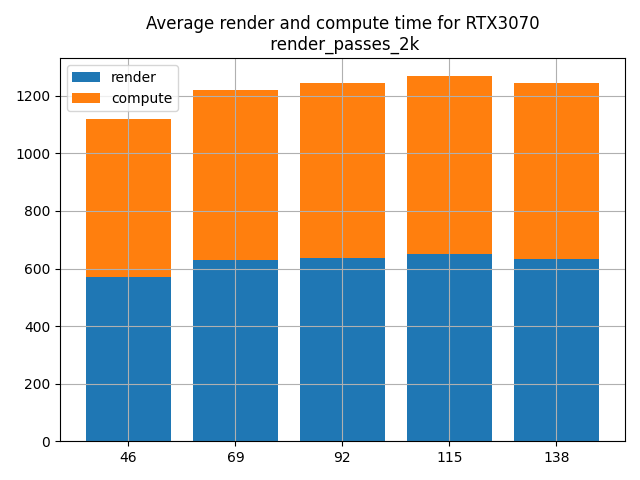
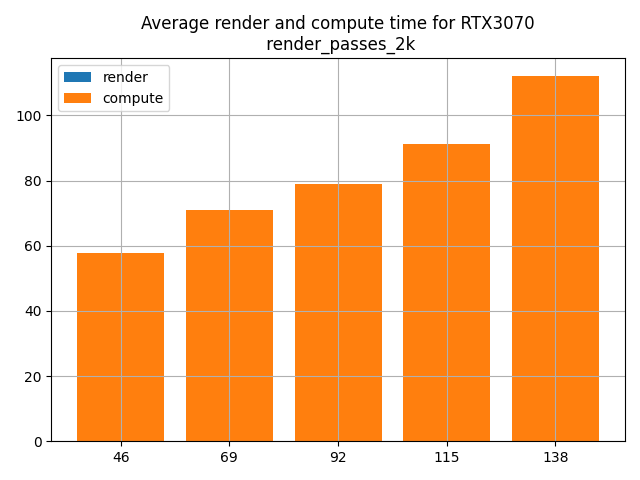
Testing

diff --git a/accel-sim-framework/pipeline/utility/plots/stacked_bar_chart.py b/accel-sim-framework/pipeline/utility/plots/stacked_bar_chart.py
@@ -2,12 +2,14 @@
 from __future__ import annotations
 
 from pathlib import Path
+from utility.kernel_handler import KernelHandler
 import pandas as pd
 import matplotlib
 matplotlib.use("Agg")
 import matplotlib.pyplot as plt
 import numpy as np
 import utility.parser as ps
+import statistics
 
 PIPELINE_ROOT = Path(__file__).resolve().parent.parent
 PIPELINE_YAML = PIPELINE_ROOT.parent / "setup" / "pipeline.yaml"
@@ -15,45 +17,28 @@ PIPELINE_YAML = PIPELINE_ROOT.parent / "setup" / "pipeline.yaml"
 pipeline = {}
 experiment = {}
 
-# Method for grouping data
-# df is the csv file as a input
-# row is what row in the csv file you want to gorup, meaning it cores based on different configs.
-# data_type is what type of data you want to gropup it by, meaning ether render og compute. So here we need to pass MEAS for render and NZ2 for compute
-# Benchmark is to filter for different benchmark, example is render_passes_2k/all1, where if the coulmn name dosent start with this name it dosent add it to the groupping.
-def group_data(df, row, data_type, benchmark):
+def group_data(df, row, benchmark, kernel_handler: KernelHandler, want_render: bool):
     data_list = []
     for col_name in df.columns[1:]:
         if not col_name.startswith(benchmark):
             continue
-        
         col_name_part = col_name.split("/")[2]
-        
-        if col_name_part.startswith(data_type):
-            data_list.append(df.loc[row, col_name])
-    
+
+        if want_render:
+            if kernel_handler.is_render_kernel(col_name_part):
+                data_list.append(df.loc[row, col_name])
+        else:
+            if kernel_handler.is_compute_kernel(col_name_part):
+                data_list.append(df.loc[row, col_name])
+
     return data_list
 
-# Computes the avg result of a grouped data
-# data_list is the list of data that you want to compute the avg of
+
 def compute_avg_data(data_list):
-    n = len(data_list)
-    sum = 0
-    for i in range(n):
-        sum = sum + data_list[i]
-    return sum/n
+    return statistics.mean(data_list) if data_list else 0
 
-# The function fetches all unic benchmark based on a csv file
-# df is the csv file object pass as a parameter.
+
 def fetch_benchmarks(df):
-    #benchmark_list = []
-    #for col_name in df.columns[1:]:
-        #if col_name == "AVG":
-           # continue
-       # name_split = col_name.split("/")
-      #  name = name_split[0] + "/" + name_split[1]
-       # benchmark_list.append(name)
-    #return set(benchmark_list)
-
     benchmark_list = []
     for col_name in df.columns[1:]:
         if col_name == "AVG":
@@ -63,13 +48,14 @@ def fetch_benchmarks(df):
         benchmark_list.append(name)
     return set(benchmark_list)
 
-# Returns the configuration metric name
+
 def get_config_metric_name(df):
     return df.columns[0]
-    
+
 
 def get_config_metric(df):
     return df.iloc[:, 0].tolist()
+
 
 def gorup_benchmakr_with_configs(benchmarks, configs):
     x_benchmarks = []
@@ -82,6 +68,7 @@ def gorup_benchmakr_with_configs(benchmarks, configs):
 
     return x_benchmarks, x_configs
 
+
 def group_y_data(len_config, len_benchmarks, avg_data_list):
     y_render = []
     y_compute = []
@@ -93,30 +80,33 @@ def group_y_data(len_config, len_benchmarks, avg_data_list):
 
     return y_render, y_compute
 
-def compute_avg_data_list(df, len_config, benchmarks):
+
+def compute_avg_data_list(df, len_config, benchmarks, kernel_handler: KernelHandler):
     avg_data_list = []
 
     for row in range(len_config):
         row_out = []
         for benchmark in benchmarks:
-            mesa_vals = group_data(df, row, "MESA", benchmark)
-            zn2_vals  = group_data(df, row, "ZN2", benchmark)
+            render_vals = group_data(df, row, benchmark, kernel_handler, want_render=True)
+            compute_vals = group_data(df, row, benchmark, kernel_handler, want_render=False)
 
-            mesa_avg = compute_avg_data(mesa_vals)
-            zn2_avg  = compute_avg_data(zn2_vals)
+            render_avg = compute_avg_data(render_vals) if render_vals else 0
+            compute_avg = compute_avg_data(compute_vals) if compute_vals else 0
 
-            row_out.append([mesa_avg, zn2_avg])
+            row_out.append([render_avg, compute_avg])
         avg_data_list.append(row_out)
+
     return avg_data_list
+
 
 def get_gpu_name(csv_path: str) -> str:
     gpu_name = Path(csv_path).parent.name
     return gpu_name
 
+
 def get_benchmark_name():
     global pipeline
     pipeline = ps.get_pipeline(PIPELINE_YAML)
-    exp_name = pipeline.experiment.name
 
     global experiment
     experiment = ps.get_experiment(pipeline.experiment.name)
@@ -131,6 +121,15 @@ def get_benchmark_name():
 def staked_bar_chart(csv_path: str) -> None:
     csv_path = Path(csv_path)
     df = pd.read_csv(csv_path)
+    kernel_names = []
+    for col_name in df.columns[1:]:
+        if col_name == "AVG":
+            continue
+        parts = col_name.split("/")
+        if len(parts) > 2:
+            kernel_names.append(parts[2])
+
+    kernel_handler = KernelHandler(kernel_names)
 
     benchmarks = sorted(fetch_benchmarks(df))
     configs = sorted(get_config_metric(df))
@@ -138,12 +137,10 @@ def staked_bar_chart(csv_path: str) -> None:
     len_config = len(configs)
 
     x_benchmarks, x_configs = gorup_benchmakr_with_configs(benchmarks, configs)
-    #x_labels = [f"{b}\n{c}" for b, c in zip(x_benchmarks, x_configs)]
     x_labels = configs
-
     x_pos = np.arange(len(x_labels))
 
-    avg_data_list = compute_avg_data_list(df, len_config, benchmarks)
+    avg_data_list = compute_avg_data_list(df, len_config, benchmarks, kernel_handler)
     y_render, y_compute = group_y_data(len_config, len_benchmarks, avg_data_list)
 
     gpu_name = get_gpu_name(csv_path)
@@ -156,22 +153,9 @@ def staked_bar_chart(csv_path: str) -> None:
     plt.title(f"Average render and compute time for {gpu_name}\n {benchmark_name}")
     plt.tight_layout()
     plt.grid(True)
-    plt.savefig(csv_path.with_suffix("").parent / f"{csv_path.stem}_stacked_bar_chart.png", dpi=300, bbox_inches="tight")
-    #plt.savefig("test_plot.png")
-    plt.savefig("test_plot.png")
+    plt.savefig(
+        csv_path.with_suffix("").parent / f"{csv_path.stem}_stacked_bar_chart.png",
+        dpi=300,
+        bbox_inches="tight",
+    )
     plt.close()
-
-def main():
-    csv_dir= "/cluster/home/olekd/projects/crisp_framework/accel-sim-framework/pipeline/results/export/RTX3070/more_streaming_multiprocessors.csv"
-    print("Result dir: ", get_result_dir(csv_dir))
-    #staked_bar_chart(csv_dir)
-
-    
-
-
-
-
-if __name__ == "__main__":
-    main()
-
-

diff --git a/accel-sim-framework/pipeline/utility/kernel_handler.py b/accel-sim-framework/pipeline/utility/kernel_handler.py
@@ -1,0 +1,54 @@
+#!/usr/bin/env python3
+
+class KernelHandler:
+    RENDER_KERNEL_PREFIX = "MESA"
+
+    def __init__(self, kernels: list[str]):
+        self.kernels = kernels
+        self.render_kernels: list[str] = []
+        self.compute_kernels: list[str] = []
+        self.__sort_kernels()
+
+    #Sort all the kernels into a render kernel list and a compute kernel list
+    def __sort_kernels(self):
+        for kernel in self.kernels:
+            if self.is_render_kernel(kernel):
+                self.render_kernels.append(kernel)
+            else:
+                self.compute_kernels.append(kernel)
+
+    #Checks if a kernel contains the prefix MEAS
+    def __string_contains_meas(self, kernel_name: str) -> bool:
+        return self.RENDER_KERNEL_PREFIX in kernel_name
+
+    #Returns all render kernel as a list
+    def get_render_kernels(self) -> list[str]:
+        return self.render_kernels
+
+    #Returns all compute kernel as a list
+    def get_compute_kernels(self) -> list[str]:
+        return self.compute_kernels
+
+    #Return all kernels
+    def get_all_kernels(self) -> list[str]:
+        return self.kernels
+
+    #Return the number of render kernels
+    def get_number_of_render_kernels(self) -> int:
+        return len(self.render_kernels)
+
+    #Return the number of compute kernels
+    def get_number_of_compute_kernels(self) -> int:
+        return len(self.compute_kernels)
+
+    #Return the number of kernels
+    def get_number_of_kernels(self) -> int:
+        return len(self.kernels)
+
+    #Returns true if a kernel is a render kernel, false otherwise
+    def is_render_kernel(self, kernel_name: str) -> bool:
+        return self.__string_contains_meas(kernel_name)
+
+    #Return true if kernel is a compute kernel, false otherwise
+    def is_compute_kernel(self, kernel_name: str) -> bool:
+        return not self.__string_contains_meas(kernel_name)
